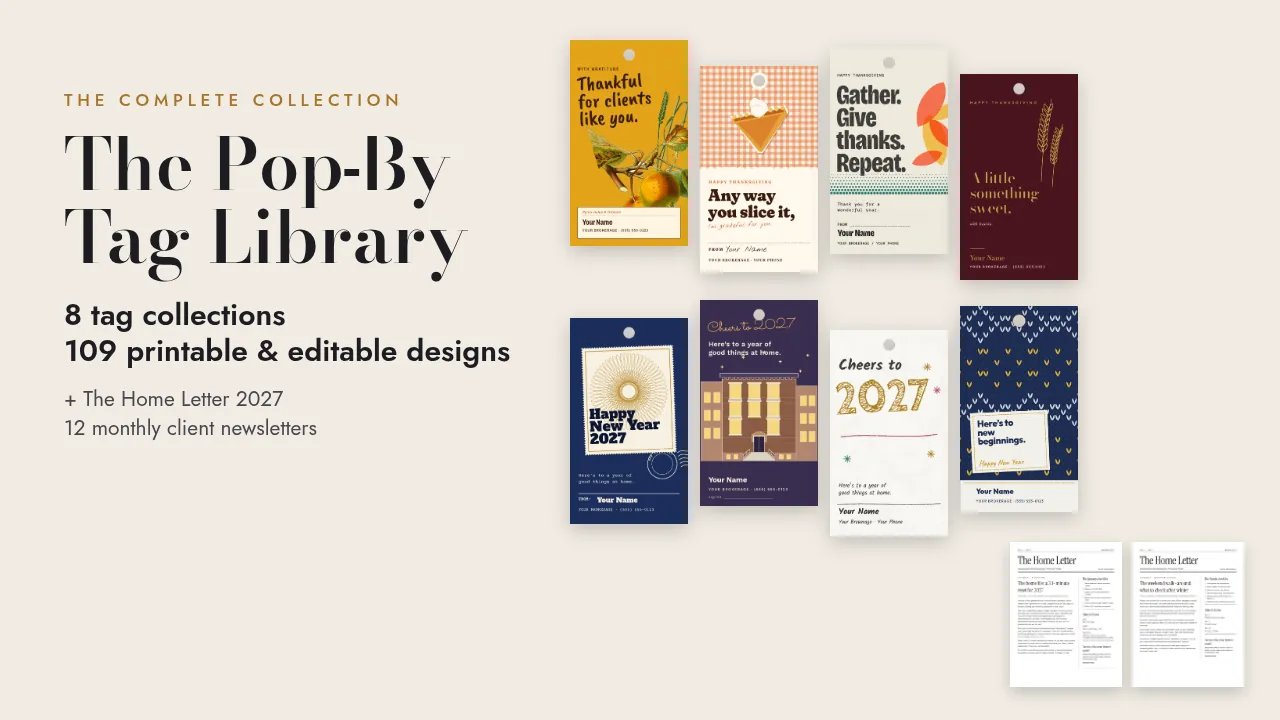
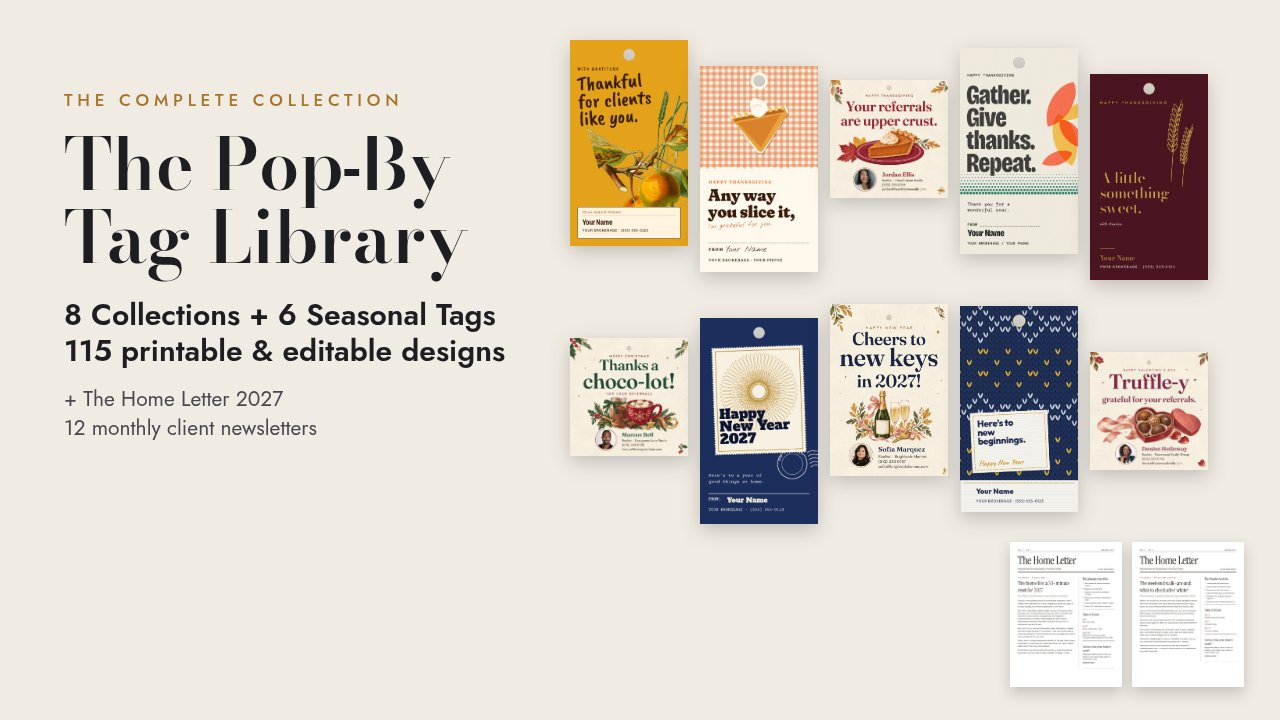
导航和页脚去掉重复的 Free sample，只保留 5 free tags；合集详情配图、首页 og 图、日历文章题图与 og 图换成印 115 的新版（加 ?v=115 防缓存）

diff --git a/index.html b/index.html
@@ -14,7 +14,7 @@
 <meta content="Midnight Pages Studio" property="og:site_name"/>
 <meta content="Midnight Pages Studio · The Pop-By Tag Library" property="og:title"/>
 <meta content="115 printable pop-by gift tag designs, including six seasonal cards from Thanksgiving to Spring, plus 12 client newsletters for real estate agents." property="og:description"/>
-<meta content="https://38763358.github.io/midnight-pages-studio/img/og.jpg" property="og:image"/>
+<meta content="https://38763358.github.io/midnight-pages-studio/img/og.jpg?v=115" property="og:image"/>
 <meta content="1200" property="og:image:width"/><meta content="675" property="og:image:height"/>
 <meta content="https://38763358.github.io/midnight-pages-studio/" property="og:url"/>
 <meta content="summary_large_image" name="twitter:card"/>
@@ -26,7 +26,7 @@
 <div class="promotion">Instant download via Gumroad · Nothing ships; everything prints. <a href="https://midnightpagesstudio.gumroad.com/l/free-pop-by-gift-tags">Download 5 Free Pop-By Tags →</a></div>
 <header class="masthead">
 <div class="wrap masthead__row"><a class="shop-link" href="https://midnightpagesstudio.gumroad.com">Shop on Gumroad</a><a class="wordmark" href="#top" aria-label="Midnight Pages Studio, home">MIDNIGHT PAGES STUDIO</a><a class="masthead__buy" href="https://midnightpagesstudio.gumroad.com/l/pop-by-tag-library"><span class="buy-long">Buy the Library — $15</span><span class="buy-short">Buy · $15</span></a></div>
-<nav aria-label="Primary"><ul class="nav wrap"><li><a class="seasonal" href="#library">Thanksgiving pop-bys</a></li><li><a href="#sets">Gift tags</a></li><li><a href="#library-details">The Tag Library</a></li><li><a href="#prompts">Prompt Pack</a></li><li><a href="#sample">Free sample</a></li><li><a href="https://midnightpagesstudio.gumroad.com/l/free-pop-by-gift-tags">5 free tags</a></li><li><a href="blog/">Journal</a></li></ul></nav>
+<nav aria-label="Primary"><ul class="nav wrap"><li><a class="seasonal" href="#library">Thanksgiving pop-bys</a></li><li><a href="#sets">Gift tags</a></li><li><a href="#library-details">The Tag Library</a></li><li><a href="#prompts">Prompt Pack</a></li><li><a href="https://midnightpagesstudio.gumroad.com/l/free-pop-by-gift-tags">5 free tags</a></li><li><a href="blog/">Journal</a></li></ul></nav>
 </header>
 <main id="main">
 <section class="hero" id="library" aria-labelledby="hero-title">
@@ -35,7 +35,7 @@
 </section>
 <section class="section wrap" id="sets" aria-labelledby="sets-title"><header class="section-head"><div><h2 id="sets-title">Gift tag sets, <span class="price">$3 each</span></h2><p class="section-note">Each set includes Thanksgiving, holiday, New Year and anytime tags in rectangle and round sizes. Pick the one that sounds like you.</p></div><a class="shop-all" href="https://midnightpagesstudio.gumroad.com">Shop all on Gumroad</a></header><ul class="products"><li><a class="product" href="https://midnightpagesstudio.gumroad.com/l/curb-appeal-pop-by-gift-tags"><img src="img/curb-appeal-480.webp" srcset="img/curb-appeal-480.webp 480w, img/curb-appeal-800.webp 800w" sizes="(max-width: 600px) 44vw, (max-width: 900px) 45vw, 23vw" width="800" height="800" loading="lazy" decoding="async" alt="Curb Appeal gift tag set: printable designs arranged on paper"><div class="product__heading"><h3>Curb Appeal</h3><span class="price">$3</span></div><p class="product__desc">Hand-drawn houses and a looping script. The natural fit for housewarmings and closing anniversaries.</p><p class="product__count">13 printable, editable tags</p><span class="product__buy">Buy Curb Appeal · $3 <span aria-hidden="true">→</span></span></a></li><li><a class="product" href="https://midnightpagesstudio.gumroad.com/l/postmark-society-pop-by-gift-tags"><img src="img/postmark-480.webp" srcset="img/postmark-480.webp 480w, img/postmark-800.webp 800w" sizes="(max-width: 600px) 44vw, (max-width: 900px) 45vw, 23vw" width="800" height="800" loading="lazy" decoding="async" alt="Postmark gift tag set: printable designs arranged on paper"><div class="product__heading"><h3>Postmark</h3><span class="price">$3</span></div><p class="product__desc">Bold sunburst stamps in brick, teal and ink. Feels like mail worth opening.</p><p class="product__count">14 printable, editable tags</p><span class="product__buy">Buy Postmark · $3 <span aria-hidden="true">→</span></span></a></li><li><a class="product" href="https://midnightpagesstudio.gumroad.com/l/fair-isle-lodge-pop-by-gift-tags"><img src="img/fair-isle-480.webp" srcset="img/fair-isle-480.webp 480w, img/fair-isle-800.webp 800w" sizes="(max-width: 600px) 44vw, (max-width: 900px) 45vw, 23vw" width="800" height="800" loading="lazy" decoding="async" alt="Fair Isle gift tag set: printable designs arranged on paper"><div class="product__heading"><h3>Fair Isle</h3><span class="price">$3</span></div><p class="product__desc">Knitted patterns in cranberry and pine. Cozy enough for every porch from November to January.</p><p class="product__count">13 printable, editable tags</p><span class="product__buy">Buy Fair Isle · $3 <span aria-hidden="true">→</span></span></a></li><li><a class="product" href="https://midnightpagesstudio.gumroad.com/l/herbarium-market-pop-by-gift-tags"><img src="img/herbarium-480.webp" srcset="img/herbarium-480.webp 480w, img/herbarium-800.webp 800w" sizes="(max-width: 600px) 44vw, (max-width: 900px) 45vw, 23vw" width="800" height="800" loading="lazy" decoding="async" alt="Herbarium gift tag set: printable designs arranged on paper"><div class="product__heading"><h3>Herbarium</h3><span class="price">$3</span></div><p class="product__desc">Botanical drawings on plum, forest and teal. Pairs well with jams, honey and seasonal fruit.</p><p class="product__count">13 printable, editable tags</p><span class="product__buy">Buy Herbarium · $3 <span aria-hidden="true">→</span></span></a></li><li><a class="product" href="https://midnightpagesstudio.gumroad.com/l/gilded-hush-pop-by-gift-tags"><img src="img/gilded-hush-480.webp" srcset="img/gilded-hush-480.webp 480w, img/gilded-hush-800.webp 800w" sizes="(max-width: 600px) 44vw, (max-width: 900px) 45vw, 23vw" width="800" height="800" loading="lazy" decoding="async" alt="Gilded Hush gift tag set: printable designs arranged on paper"><div class="product__heading"><h3>Gilded Hush</h3><span class="price">$3</span></div><p class="product__desc">Quiet ivory, navy and oxblood with fine gold details. Made for your luxury book of clients.</p><p class="product__count">14 printable, editable tags</p><span class="product__buy">Buy Gilded Hush · $3 <span aria-hidden="true">→</span></span></a></li><li><a class="product" href="https://midnightpagesstudio.gumroad.com/l/chalk-talk-pop-by-gift-tags"><img src="img/chalk-talk-480.webp" srcset="img/chalk-talk-480.webp 480w, img/chalk-talk-800.webp 800w" sizes="(max-width: 600px) 44vw, (max-width: 900px) 45vw, 23vw" width="800" height="800" loading="lazy" decoding="async" alt="Chalk Talk gift tag set: printable designs arranged on paper"><div class="product__heading"><h3>Chalk Talk</h3><span class="price">$3</span></div><p class="product__desc">Chalkboard lettering and line drawings. Easygoing, friendly, good for neighbors and past clients alike.</p><p class="product__count">14 printable, editable tags</p><span class="product__buy">Buy Chalk Talk · $3 <span aria-hidden="true">→</span></span></a></li><li><a class="product" href="https://midnightpagesstudio.gumroad.com/l/gingham-kitchen-pop-by-gift-tags"><img src="img/gingham-kitchen-480.webp" srcset="img/gingham-kitchen-480.webp 480w, img/gingham-kitchen-800.webp 800w" sizes="(max-width: 600px) 44vw, (max-width: 900px) 45vw, 23vw" width="800" height="800" loading="lazy" decoding="async" alt="Gingham Kitchen gift tag set: printable designs arranged on paper"><div class="product__heading"><h3>Gingham Kitchen</h3><span class="price">$3</span></div><p class="product__desc">Checked picnic prints and homey icons. Made for baked goods and anything from the kitchen.</p><p class="product__count">14 printable, editable tags</p><span class="product__buy">Buy Gingham Kitchen · $3 <span aria-hidden="true">→</span></span></a></li><li><a class="product" href="https://midnightpagesstudio.gumroad.com/l/riso-papercut-pop-by-gift-tags"><img src="img/riso-papercut-480.webp" srcset="img/riso-papercut-480.webp 480w, img/riso-papercut-800.webp 800w" sizes="(max-width: 600px) 44vw, (max-width: 900px) 45vw, 23vw" width="800" height="800" loading="lazy" decoding="async" alt="Riso Papercut gift tag set: printable designs arranged on paper"><div class="product__heading"><h3>Riso Papercut</h3><span class="price">$3</span></div><p class="product__desc">Cut-paper shapes in saturated print-shop color. The bright one in the family.</p><p class="product__count">14 printable, editable tags</p><span class="product__buy">Buy Riso Papercut · $3 <span aria-hidden="true">→</span></span></a></li></ul></section>
 <section class="section wrap how" aria-labelledby="how-title"><h2 id="how-title">How agents <em>use them</em></h2><ul class="use-grid"><li><img src="assets/scenes/use-popby-porch.webp" width="1280" height="960" loading="lazy" decoding="async" alt="A bag of apples on an autumn porch with a plum Herbarium gift tag tied to the handle"><h3>Pop-bys</h3><p>A small seasonal gift and a short note, dropped at the door. The tag carries your name so the gift does the remembering.</p></li><li><img src="assets/scenes/v4-use-keys.webp" width="1280" height="960" loading="lazy" decoding="async" alt="House keys and a candle with a &quot;Welcome home&quot; gift tag"><h3>Client touches</h3><p>Closing anniversaries, housewarmings, a thank-you for a referral. A reason to reach out that isn’t a market update.</p></li><li><img src="assets/scenes/v4-use-openhouse.webp" width="1280" height="960" loading="lazy" decoding="async" alt="A cookie jar with a gift tag on a model home kitchen island"><h3>Open houses</h3><p>Tie a tag to cookies or water bottles on the counter. Visitors leave with your name in hand.</p></li></ul></section>
-<section class="section wrap library-details" id="library-details" aria-labelledby="library-title"><div class="detail-text"><h2 id="library-title">The Pop-By Tag Library</h2><p>Eight tag collections plus six seasonal cards, 115 printable and editable designs, and The Home Letter 2027: twelve monthly client newsletters, already written.</p><p>For the bag of apples on a past client’s porch, the pie at Thanksgiving, the candle after closing. Type your name once, print at home or at a shop, and tie it on.</p><p class="collection-caption">Herbarium, Gingham Kitchen, Riso Papercut, Gilded Hush, Postmark, Curb Appeal, Chalk Talk and Fair Isle, plus seasonal cards for Thanksgiving, Christmas, New Year, Valentine’s Day, St. Patrick’s Day and Spring.</p><a class="btn" href="https://midnightpagesstudio.gumroad.com/l/pop-by-tag-library">Buy the Library <span>$15</span></a><p class="buy-save">Save $9 vs. buying all 8 sets separately ($24)</p><p class="buy-note">Instant download via Gumroad.</p></div><figure><img src="img/library-800.webp" srcset="img/library-480.webp 480w, img/library-800.webp 800w" sizes="(max-width: 600px) 90vw, 520px" width="800" height="800" loading="lazy" decoding="async" alt="The Pop-By Tag Library: Herbarium, Gingham Kitchen, Riso Papercut, Gilded Hush, Postmark, Curb Appeal, Chalk Talk and Fair Isle designs arranged in a grid"></figure></section>
+<section class="section wrap library-details" id="library-details" aria-labelledby="library-title"><div class="detail-text"><h2 id="library-title">The Pop-By Tag Library</h2><p>Eight tag collections plus six seasonal cards, 115 printable and editable designs, and The Home Letter 2027: twelve monthly client newsletters, already written.</p><p>For the bag of apples on a past client’s porch, the pie at Thanksgiving, the candle after closing. Type your name once, print at home or at a shop, and tie it on.</p><p class="collection-caption">Herbarium, Gingham Kitchen, Riso Papercut, Gilded Hush, Postmark, Curb Appeal, Chalk Talk and Fair Isle, plus seasonal cards for Thanksgiving, Christmas, New Year, Valentine’s Day, St. Patrick’s Day and Spring.</p><a class="btn" href="https://midnightpagesstudio.gumroad.com/l/pop-by-tag-library">Buy the Library <span>$15</span></a><p class="buy-save">Save $9 vs. buying all 8 sets separately ($24)</p><p class="buy-note">Instant download via Gumroad.</p></div><figure><picture><source type="image/webp" srcset="img/library-115-480.webp 480w, img/library-115-800.webp 800w" sizes="(max-width: 600px) 90vw, 520px"><img src="img/library-115-800.jpg" srcset="img/library-115-480.jpg 480w, img/library-115-800.jpg 800w" sizes="(max-width: 600px) 90vw, 520px" width="800" height="875" loading="lazy" decoding="async" alt="What’s inside the Pop-By Tag Library: 8 collections plus 6 seasonal tags, 115 designs, shown collection by collection (Herbarium Market, Gingham Kitchen, Riso Papercut, Gilded Hush, Postmark Society, Curb Appeal, Chalk Talk, Fair Isle Lodge, Seasonal Signature Tags) plus The Home Letter 2027"></picture></figure></section>
 <section class="section wrap seasonals" id="seasonal" aria-labelledby="seasonal-title"><header class="seasonals__head"><h2 id="seasonal-title">2027 Seasonal Signature Tags · <span class="price">$3 each</span></h2><p class="section-note">One editable, printable tag for each occasion, from Thanksgiving to the Fourth of July.</p></header><ul class="seasonals__list"><li><a class="season" href="https://midnightpagesstudio.gumroad.com/l/thanksgiving-pop-by-tag-upper-crust"><picture><source type="image/webp" srcset="img/seasonal/thanksgiving-480.webp 480w, img/seasonal/thanksgiving-800.webp 800w" sizes="(max-width: 600px) 64vw, 120px"><img src="img/seasonal/thanksgiving-480.jpg" srcset="img/seasonal/thanksgiving-480.jpg 480w, img/seasonal/thanksgiving-800.jpg 800w" sizes="(max-width: 600px) 64vw, 120px" width="480" height="480" loading="lazy" decoding="async" alt="Upper Crust Pie pop-by tag: “Your referrals are upper crust” Thanksgiving tag tied to a bag of pies"></picture><span class="season__text"><span class="season__occasion">Thanksgiving</span><span class="season__name">Upper Crust Pie</span><span class="season__buy">Buy · <span class="price">$3</span> <span aria-hidden="true">→</span></span></span></a></li><li><a class="season" href="https://midnightpagesstudio.gumroad.com/l/christmas-pop-by-tag-choco-lot"><picture><source type="image/webp" srcset="img/seasonal/christmas-480.webp 480w, img/seasonal/christmas-800.webp 800w" sizes="(max-width: 600px) 64vw, 120px"><img src="img/seasonal/christmas-480.jpg" srcset="img/seasonal/christmas-480.jpg 480w, img/seasonal/christmas-800.jpg 800w" sizes="(max-width: 600px) 64vw, 120px" width="480" height="480" loading="lazy" decoding="async" alt="Hot Cocoa Choco-lot pop-by tag: “Thanks a choco-lot” Christmas tag on a jar of hot cocoa mix"></picture><span class="season__text"><span class="season__occasion">Christmas</span><span class="season__name">Hot Cocoa Choco-lot</span><span class="season__buy">Buy · <span class="price">$3</span> <span aria-hidden="true">→</span></span></span></a></li><li><a class="season" href="https://midnightpagesstudio.gumroad.com/l/new-year-pop-by-tag-new-keys-2027"><picture><source type="image/webp" srcset="img/seasonal/new-year-480.webp 480w, img/seasonal/new-year-800.webp 800w" sizes="(max-width: 600px) 64vw, 120px"><img src="img/seasonal/new-year-480.jpg" srcset="img/seasonal/new-year-480.jpg 480w, img/seasonal/new-year-800.jpg 800w" sizes="(max-width: 600px) 64vw, 120px" width="480" height="480" loading="lazy" decoding="async" alt="Cheers to New Keys 2027 pop-by tag: “Cheers to new keys in 2027” bottle hang tag on a bottle of sparkling wine"></picture><span class="season__text"><span class="season__occasion">New Year</span><span class="season__name">Cheers to New Keys 2027</span><span class="season__buy">Buy · <span class="price">$3</span> <span aria-hidden="true">→</span></span></span></a></li><li><a class="season" href="https://midnightpagesstudio.gumroad.com/l/valentines-pop-by-tag-truffle-y"><picture><source type="image/webp" srcset="img/seasonal/valentines-480.webp 480w, img/seasonal/valentines-800.webp 800w" sizes="(max-width: 600px) 64vw, 120px"><img src="img/seasonal/valentines-480.jpg" srcset="img/seasonal/valentines-480.jpg 480w, img/seasonal/valentines-800.jpg 800w" sizes="(max-width: 600px) 64vw, 120px" width="480" height="480" loading="lazy" decoding="async" alt="Chocolate Truffle pop-by tag: “Truffle-y grateful for your referrals” Valentine’s Day tag beside a box of chocolates"></picture><span class="season__text"><span class="season__occasion">Valentine’s Day</span><span class="season__name">Chocolate Truffle</span><span class="season__buy">Buy · <span class="price">$3</span> <span aria-hidden="true">→</span></span></span></a></li><li><a class="season" href="https://midnightpagesstudio.gumroad.com/l/st-patricks-pop-by-tag-top-o-the-market"><picture><source type="image/webp" srcset="img/seasonal/st-patricks-480.webp 480w, img/seasonal/st-patricks-800.webp 800w" sizes="(max-width: 600px) 64vw, 120px"><img src="img/seasonal/st-patricks-480.jpg" srcset="img/seasonal/st-patricks-480.jpg 480w, img/seasonal/st-patricks-800.jpg 800w" sizes="(max-width: 600px) 64vw, 120px" width="480" height="480" loading="lazy" decoding="async" alt="Top o’ the Market pop-by tag: “Top o’ the market to ya” St Patrick’s Day tag with tea and shortbread"></picture><span class="season__text"><span class="season__occasion">St Patrick’s Day</span><span class="season__name">Top o’ the Market</span><span class="season__buy">Buy · <span class="price">$3</span> <span aria-hidden="true">→</span></span></span></a></li><li><a class="season" href="https://midnightpagesstudio.gumroad.com/l/spring-pop-by-tag-feather-a-new-nest"><picture><source type="image/webp" srcset="img/seasonal/spring-480.webp 480w, img/seasonal/spring-800.webp 800w" sizes="(max-width: 600px) 64vw, 120px"><img src="img/seasonal/spring-480.jpg" srcset="img/seasonal/spring-480.jpg 480w, img/seasonal/spring-800.jpg 800w" sizes="(max-width: 600px) 64vw, 120px" width="480" height="480" loading="lazy" decoding="async" alt="Feather a New Nest pop-by tag: “Ready to feather a new nest?” spring tag on a box with a nest of eggs"></picture><span class="season__text"><span class="season__occasion">Spring</span><span class="season__name">Feather a New Nest</span><span class="season__buy">Buy · <span class="price">$3</span> <span aria-hidden="true">→</span></span></span></a></li><li><a class="season" href="https://midnightpagesstudio.gumroad.com/l/mothers-day-pop-by-tag-shortcake"><picture><source type="image/webp" srcset="img/seasonal/mothers-day-480.webp 480w, img/seasonal/mothers-day-800.webp 800w" sizes="(max-width: 600px) 64vw, 120px"><img src="img/seasonal/mothers-day-480.jpg" srcset="img/seasonal/mothers-day-480.jpg 480w, img/seasonal/mothers-day-800.jpg 800w" sizes="(max-width: 600px) 64vw, 120px" width="480" height="480" loading="lazy" decoding="async" alt="Strawberry Shortcake pop-by tag: “Never selling you short(cake)” Mother’s Day tag on a kraft gift box"></picture><span class="season__text"><span class="season__occasion">Mother’s Day</span><span class="season__name">Strawberry Shortcake</span><span class="season__buy">Buy · <span class="price">$3</span> <span aria-hidden="true">→</span></span></span></a></li><li><a class="season" href="https://midnightpagesstudio.gumroad.com/l/summer-pop-by-tag-keep-me-afloat"><picture><source type="image/webp" srcset="img/seasonal/summer-480.webp 480w, img/seasonal/summer-800.webp 800w" sizes="(max-width: 600px) 64vw, 120px"><img src="img/seasonal/summer-480.jpg" srcset="img/seasonal/summer-480.jpg 480w, img/seasonal/summer-800.jpg 800w" sizes="(max-width: 600px) 64vw, 120px" width="480" height="480" loading="lazy" decoding="async" alt="Root Beer Float pop-by tag: “You keep me afloat” summer tag on a kraft gift box"></picture><span class="season__text"><span class="season__occasion">Summer</span><span class="season__name">Root Beer Float</span><span class="season__buy">Buy · <span class="price">$3</span> <span aria-hidden="true">→</span></span></span></a></li><li><a class="season" href="https://midnightpagesstudio.gumroad.com/l/fourth-of-july-pop-by-tag-a-maize-ing"><picture><source type="image/webp" srcset="img/seasonal/fourth-of-july-480.webp 480w, img/seasonal/fourth-of-july-800.webp 800w" sizes="(max-width: 600px) 64vw, 120px"><img src="img/seasonal/fourth-of-july-480.jpg" srcset="img/seasonal/fourth-of-july-480.jpg 480w, img/seasonal/fourth-of-july-800.jpg 800w" sizes="(max-width: 600px) 64vw, 120px" width="480" height="480" loading="lazy" decoding="async" alt="Kettle Corn A-maize-ing pop-by tag: “You’re a-maize-ing” 4th of July tag with kettle corn"></picture><span class="season__text"><span class="season__occasion">4th of July</span><span class="season__name">Kettle Corn A-maize-ing</span><span class="season__buy">Buy · <span class="price">$3</span> <span aria-hidden="true">→</span></span></span></a></li></ul><p class="seasonals__library">Want more than one? The Pop-By Tag Library has all 115 designs, including the six seasonal cards from Thanksgiving to Spring, for $15. <a href="https://midnightpagesstudio.gumroad.com/l/pop-by-tag-library">Get the Library <span aria-hidden="true">→</span></a></p></section>
 <section class="section wrap prompts" id="prompts" aria-labelledby="prompts-title"><img class="prompt-scene" src="assets/scenes/prompt-desk.webp" width="1280" height="720" loading="lazy" decoding="async" alt="AI Listing and Marketing Prompt Pack booklet beside coffee, a laptop and a pen on a sunlit desk; no gift tag is shown"><div class="detail-text"><p class="intro">For the writing in between</p><h2 id="prompts-title">AI Listing &amp; Marketing Prompt Pack</h2><p>93 copy-and-paste prompts for ChatGPT, Claude or Gemini, written for the work agents do every week: listing descriptions, follow-up emails, social posts, open house promotion.</p><p>Every prompt has a filled-in example, a sample output and Fair Housing guardrails. PDF, editable Word file and CSV.</p><a class="btn" href="https://midnightpagesstudio.gumroad.com/l/ai-listing-marketing-prompt-pack-real-estate-agents">Buy the Prompt Pack <span>$24</span></a></div></section>
 <section class="sample" id="sample" aria-labelledby="sample-title"><div class="wrap sample__inner"><div><p class="intro">Free</p><h2 id="sample-title">Five pop-by tags, <em>on the house</em></h2><p>One printable, editable design from each of five collections: Herbarium, Riso Papercut, Curb Appeal, Gilded Hush and Fair Isle. Free on Gumroad. Try them before you buy anything.</p></div><a class="btn" href="https://midnightpagesstudio.gumroad.com/l/free-pop-by-gift-tags">Download 5 Free Pop-By Tags</a></div></section>
@@ -45,7 +45,7 @@
 <li><a href="#library">Tag Library</a></li>
 <li><a href="#sets">Gift tags</a></li>
 <li><a href="#prompts">Prompt Pack</a></li>
-<li><a href="#sample">Free sample</a></li>
+<li><a href="https://midnightpagesstudio.gumroad.com/l/free-pop-by-gift-tags">5 free tags</a></li>
 <li><a href="blog/">Journal</a></li>
 </ul><p class="footer__contact">Contact: <a href="mailto:yinbo870815@gmail.com">yinbo870815@gmail.com</a></p><p class="footer__fine">Digital downloads for US real estate agents. Nothing ships; everything prints.</p></div></footer>
 </body></html>

diff --git a/blog/index.html b/blog/index.html
@@ -15,13 +15,13 @@
 <meta property="og:title" content="Pop-By Ideas and Client Touch Guides for Realtors · Midnight Pages Studio Journal">
 <meta property="og:description" content="Practical guides for US real estate agents: pop-by gift ideas, tag wording, and a year-round client touch calendar.">
 <meta property="og:url" content="https://38763358.github.io/midnight-pages-studio/blog/">
-<meta property="og:image" content="https://38763358.github.io/midnight-pages-studio/img/blog/og-calendar.jpg">
+<meta property="og:image" content="https://38763358.github.io/midnight-pages-studio/img/blog/og-calendar.jpg?v=115">
 <meta property="og:image:width" content="1200"><meta property="og:image:height" content="630">
 <meta property="og:locale" content="en_US">
 <meta name="twitter:card" content="summary_large_image">
 <meta name="twitter:title" content="Pop-By Ideas and Client Touch Guides for Realtors · Midnight Pages Studio Journal">
 <meta name="twitter:description" content="Practical guides for US real estate agents: pop-by gift ideas, tag wording, and a year-round client touch calendar.">
-<meta name="twitter:image" content="https://38763358.github.io/midnight-pages-studio/img/blog/og-calendar.jpg">
+<meta name="twitter:image" content="https://38763358.github.io/midnight-pages-studio/img/blog/og-calendar.jpg?v=115">
 <link rel="preload" href="../fonts/InstrumentSerif-Regular.woff" as="font" type="font/woff" crossorigin>
 <link rel="stylesheet" href="../blog.css">
 <script type="application/ld+json">{
@@ -67,7 +67,7 @@
    "headline": "The 2027 Client Touch Calendar for Realtors",
    "url": "https://38763358.github.io/midnight-pages-studio/blog/2027-client-touch-calendar-for-realtors/",
    "datePublished": "2026-10-19",
-   "image": "https://38763358.github.io/midnight-pages-studio/img/blog/og-calendar.jpg",
+   "image": "https://38763358.github.io/midnight-pages-studio/img/blog/og-calendar.jpg?v=115",
    "author": {
     "@type": "Organization",
     "name": "Midnight Pages Studio",
@@ -91,7 +91,7 @@
 </header>
 <main id="main">
  <header class="b-wrap b-list__head"><p class="b-eyebrow">The Journal</p><h1 class="b-display">Notes on <em>staying in touch</em></h1><p class="b-dek">Pop-by ideas, tag wording and a calendar for the year. Short, practical guides for agents.</p></header>
- <ul class="b-wrap b-cards" role="list"><li class="b-card"><a href="thanksgiving-pop-by-ideas-for-realtors/"><picture><source type="image/webp" srcset="../img/blog/thanksgiving-800.webp"><img src="https://38763358.github.io/midnight-pages-studio/img/blog/thanksgiving-800.jpg" width="800" height="450" alt="" loading="lazy" decoding="async"></picture><span class="b-card__date"><time datetime="2026-10-19">October 19, 2026</time></span><h2 class="b-card__h">Thanksgiving Pop-By Ideas for Realtors</h2><p>Practical Thanksgiving pop-by ideas for real estate agents: what to give, when to drop it off, what to write on the tag, and how to keep it simple.</p><span class="b-card__more">Read the guide <span aria-hidden="true">&rarr;</span></span></a></li><li class="b-card"><a href="holiday-pop-by-ideas-for-realtors/"><picture><source type="image/webp" srcset="../img/blog/holiday-800.webp"><img src="https://38763358.github.io/midnight-pages-studio/img/blog/holiday-800.jpg" width="800" height="450" alt="" loading="lazy" decoding="async"></picture><span class="b-card__date"><time datetime="2026-10-19">October 19, 2026</time></span><h2 class="b-card__h">December Holiday Pop-By Ideas for Realtors</h2><p>December pop-by ideas for real estate agents: inclusive holiday gifts, tag wording for every client, timing around the holidays, and a simple New Year follow-up.</p><span class="b-card__more">Read the guide <span aria-hidden="true">&rarr;</span></span></a></li><li class="b-card"><a href="2027-client-touch-calendar-for-realtors/"><picture><source type="image/webp" srcset="../img/blog/calendar-800.webp"><img src="https://38763358.github.io/midnight-pages-studio/img/blog/calendar-800.jpg" width="800" height="450" alt="" loading="lazy" decoding="async"></picture><span class="b-card__date"><time datetime="2026-10-19">October 19, 2026</time></span><h2 class="b-card__h">The 2027 Client Touch Calendar for Realtors</h2><p>A month-by-month 2027 plan for real estate agents: four seasonal pop-bys, a monthly client newsletter, and simple touches in between so you stay in touch all year.</p><span class="b-card__more">Read the guide <span aria-hidden="true">&rarr;</span></span></a></li></ul>
+ <ul class="b-wrap b-cards" role="list"><li class="b-card"><a href="thanksgiving-pop-by-ideas-for-realtors/"><picture><source type="image/webp" srcset="../img/blog/thanksgiving-800.webp"><img src="https://38763358.github.io/midnight-pages-studio/img/blog/thanksgiving-800.jpg" width="800" height="450" alt="" loading="lazy" decoding="async"></picture><span class="b-card__date"><time datetime="2026-10-19">October 19, 2026</time></span><h2 class="b-card__h">Thanksgiving Pop-By Ideas for Realtors</h2><p>Practical Thanksgiving pop-by ideas for real estate agents: what to give, when to drop it off, what to write on the tag, and how to keep it simple.</p><span class="b-card__more">Read the guide <span aria-hidden="true">&rarr;</span></span></a></li><li class="b-card"><a href="holiday-pop-by-ideas-for-realtors/"><picture><source type="image/webp" srcset="../img/blog/holiday-800.webp"><img src="https://38763358.github.io/midnight-pages-studio/img/blog/holiday-800.jpg" width="800" height="450" alt="" loading="lazy" decoding="async"></picture><span class="b-card__date"><time datetime="2026-10-19">October 19, 2026</time></span><h2 class="b-card__h">December Holiday Pop-By Ideas for Realtors</h2><p>December pop-by ideas for real estate agents: inclusive holiday gifts, tag wording for every client, timing around the holidays, and a simple New Year follow-up.</p><span class="b-card__more">Read the guide <span aria-hidden="true">&rarr;</span></span></a></li><li class="b-card"><a href="2027-client-touch-calendar-for-realtors/"><picture><source type="image/webp" srcset="../img/blog/calendar-800.webp?v=115"><img src="https://38763358.github.io/midnight-pages-studio/img/blog/calendar-800.jpg?v=115" width="800" height="450" alt="" loading="lazy" decoding="async"></picture><span class="b-card__date"><time datetime="2026-10-19">October 19, 2026</time></span><h2 class="b-card__h">The 2027 Client Touch Calendar for Realtors</h2><p>A month-by-month 2027 plan for real estate agents: four seasonal pop-bys, a monthly client newsletter, and simple touches in between so you stay in touch all year.</p><span class="b-card__more">Read the guide <span aria-hidden="true">&rarr;</span></span></a></li></ul>
  <div class="b-wrap b-list__sample"><aside class="b-sample" aria-labelledby="sample-h">
  <div class="b-sample__img"><picture><source type="image/webp" srcset="../img/free-tags-480.webp 480w, ../img/free-tags-960.webp 960w" sizes="(min-width: 40rem) 22rem, 90vw"><img src="../img/free-tags-480.jpg" srcset="../img/free-tags-480.jpg 480w, ../img/free-tags-960.jpg 960w" sizes="(min-width: 40rem) 22rem, 90vw" width="480" height="270" alt="Cover of the free Pop-By Gift Tag Sampler: five printable tag designs from five collections" loading="lazy" decoding="async"></picture></div>
  <div><p class="b-eyebrow">Free</p><h2 id="sample-h" class="b-sample__h">Five pop-by tags, <em>on the house</em></h2>

diff --git a/blog/2027-client-touch-calendar-for-realtors/index.html b/blog/2027-client-touch-calendar-for-realtors/index.html
@@ -15,13 +15,13 @@
 <meta property="og:title" content="2027 Client Touch Calendar for Realtors: Pop-Bys and Monthly Newsletters · Midnight Pages Studio">
 <meta property="og:description" content="A month-by-month 2027 plan for real estate agents: four seasonal pop-bys, a monthly client newsletter, and simple touches in between so you stay in touch all year.">
 <meta property="og:url" content="https://38763358.github.io/midnight-pages-studio/blog/2027-client-touch-calendar-for-realtors/">
-<meta property="og:image" content="https://38763358.github.io/midnight-pages-studio/img/blog/og-calendar.jpg">
+<meta property="og:image" content="https://38763358.github.io/midnight-pages-studio/img/blog/og-calendar.jpg?v=115">
 <meta property="og:image:width" content="1200"><meta property="og:image:height" content="630">
 <meta property="og:locale" content="en_US">
 <meta name="twitter:card" content="summary_large_image">
 <meta name="twitter:title" content="2027 Client Touch Calendar for Realtors: Pop-Bys and Monthly Newsletters · Midnight Pages Studio">
 <meta name="twitter:description" content="A month-by-month 2027 plan for real estate agents: four seasonal pop-bys, a monthly client newsletter, and simple touches in between so you stay in touch all year.">
-<meta name="twitter:image" content="https://38763358.github.io/midnight-pages-studio/img/blog/og-calendar.jpg">
+<meta name="twitter:image" content="https://38763358.github.io/midnight-pages-studio/img/blog/og-calendar.jpg?v=115">
 <link rel="preload" href="../../fonts/InstrumentSerif-Regular.woff" as="font" type="font/woff" crossorigin>
 <link rel="stylesheet" href="../../blog.css">
 <script type="application/ld+json">{
@@ -30,7 +30,7 @@
  "headline": "The 2027 Client Touch Calendar for Realtors",
  "description": "A month-by-month 2027 plan for real estate agents: four seasonal pop-bys, a monthly client newsletter, and simple touches in between so you stay in touch all year.",
  "image": [
-  "https://38763358.github.io/midnight-pages-studio/img/blog/og-calendar.jpg"
+  "https://38763358.github.io/midnight-pages-studio/img/blog/og-calendar.jpg?v=115"
  ],
  "datePublished": "2026-10-19",
  "dateModified": "2026-10-19",
@@ -97,7 +97,7 @@
   <p class="b-dek">Four pop-bys, twelve newsletters and a few small touches in between. A year-long plan you can set up in an afternoon.</p>
   <p class="b-byline">Midnight Pages Studio · <time datetime="2026-10-19">October 19, 2026</time></p>
  </header>
- <figure class="b-wrap b-hero"><picture><source type="image/webp" srcset="../../img/blog/calendar-800.webp 800w, ../../img/blog/calendar-1280.webp 1280w" sizes="(min-width: 72rem) 68rem, 100vw"><img src="https://38763358.github.io/midnight-pages-studio/img/blog/calendar-1280.jpg" srcset="https://38763358.github.io/midnight-pages-studio/img/blog/calendar-800.jpg 800w, https://38763358.github.io/midnight-pages-studio/img/blog/calendar-1280.jpg 1280w" sizes="(min-width: 72rem) 68rem, 100vw" width="1280" height="720" alt="Printable pop-by gift tags from Midnight Pages Studio" fetchpriority="high"></picture></figure>
+ <figure class="b-wrap b-hero"><picture><source type="image/webp" srcset="../../img/blog/calendar-800.webp?v=115 800w, ../../img/blog/calendar-1280.webp?v=115 1280w" sizes="(min-width: 72rem) 68rem, 100vw"><img src="https://38763358.github.io/midnight-pages-studio/img/blog/calendar-1280.jpg?v=115" srcset="https://38763358.github.io/midnight-pages-studio/img/blog/calendar-800.jpg?v=115 800w, https://38763358.github.io/midnight-pages-studio/img/blog/calendar-1280.jpg?v=115 1280w" sizes="(min-width: 72rem) 68rem, 100vw" width="1280" height="720" alt="Printable pop-by gift tags from Midnight Pages Studio" fetchpriority="high"></picture></figure>
  <div class="b-wrap b-prose">
 <p>Most agents mean to stay in touch with past clients and then get busy. A calendar fixes that. Decide now what goes out each month, and the year mostly runs itself. Here&rsquo;s a simple rhythm: a newsletter every month, a pop-by roughly once a season, and a personal touch on each client&rsquo;s own dates.</p>
 
